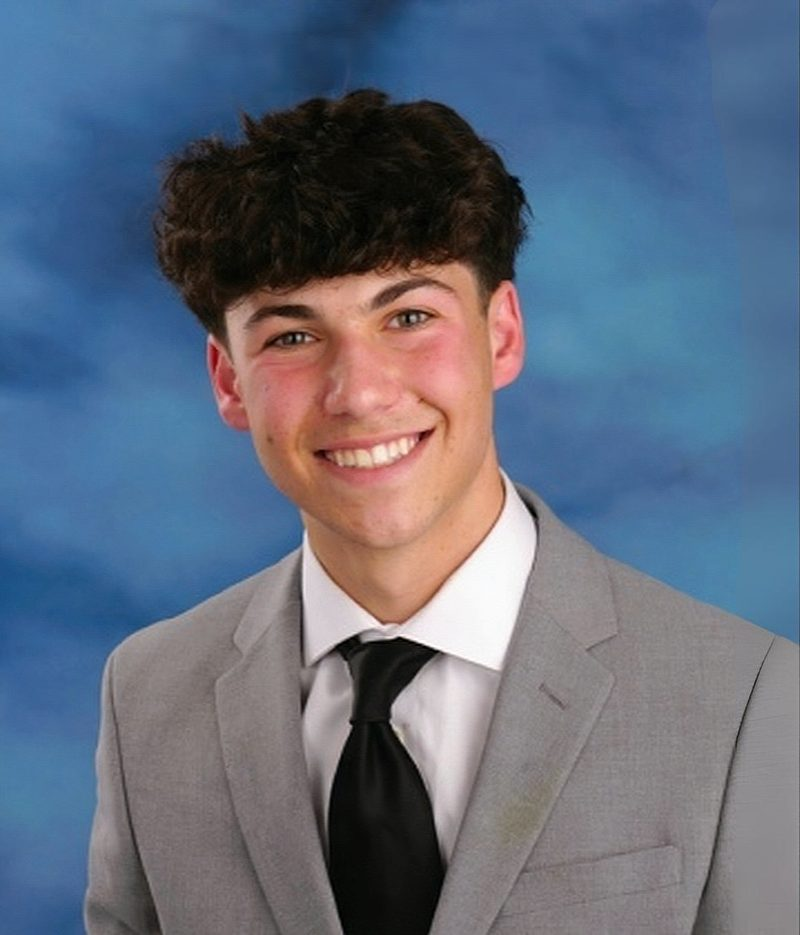
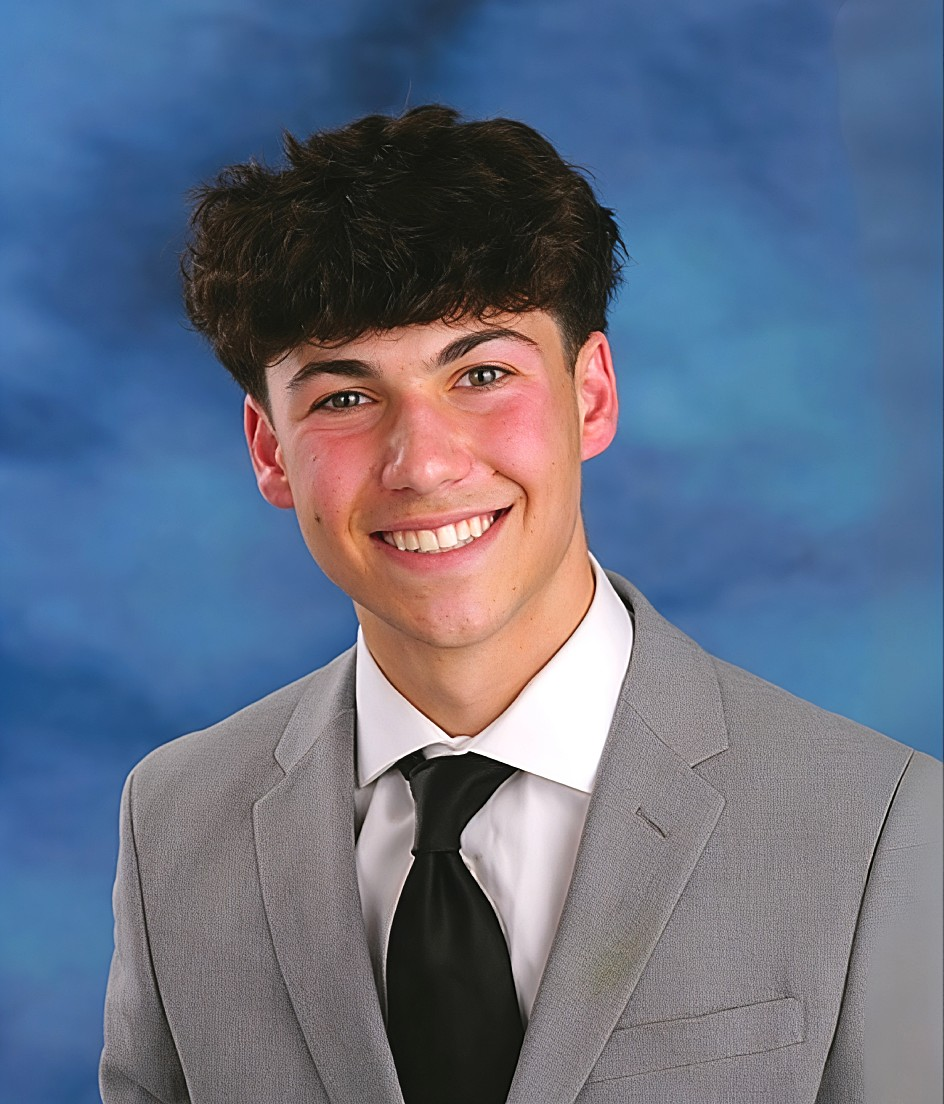
Use higher-quality headshot

diff --git a/components/Cover.tsx b/components/Cover.tsx
@@ -5,12 +5,12 @@ import { contents } from "./contents";
 import { CoverTilt } from "./CoverTilt";
 import { ArrowUpRight, Barcode, Container, Kicker } from "./ui";
 
-const srcSet = "/headshot-480.webp 480w, /headshot-640.webp 640w, /headshot-800.webp 800w";
+const srcSet = "/headshot-480.webp 480w, /headshot-640.webp 640w, /headshot-960.webp 960w";
 const sizes = "(min-width: 1024px) 31rem, 92vw";
 
 // Opening spread: the contents page on the left, the cover on the right.
 export function Cover() {
-  preload("/headshot-800.webp", {
+  preload("/headshot-960.webp", {
     as: "image",
     imageSrcSet: srcSet,
     imageSizes: sizes,
@@ -58,7 +58,7 @@ function CoverPage() {
             {/* Plain img so the browser picks the right size from srcSet (the static export can't resize images). */}
             {/* eslint-disable-next-line @next/next/no-img-element */}
             <img
-              src="/headshot-800.webp"
+              src="/headshot-960.webp"
               srcSet={srcSet}
               sizes={sizes}
               alt={site.headshot.alt}

diff --git a/content/site.ts b/content/site.ts
@@ -36,8 +36,8 @@ export const site = {
   headshot: {
     src: "/headshot.jpg",
     alt: "Brandon Zeller in a grey suit against a blue studio backdrop",
-    width: 800,
-    height: 935,
+    width: 944,
+    height: 1104,
   },
 
   seo: {
